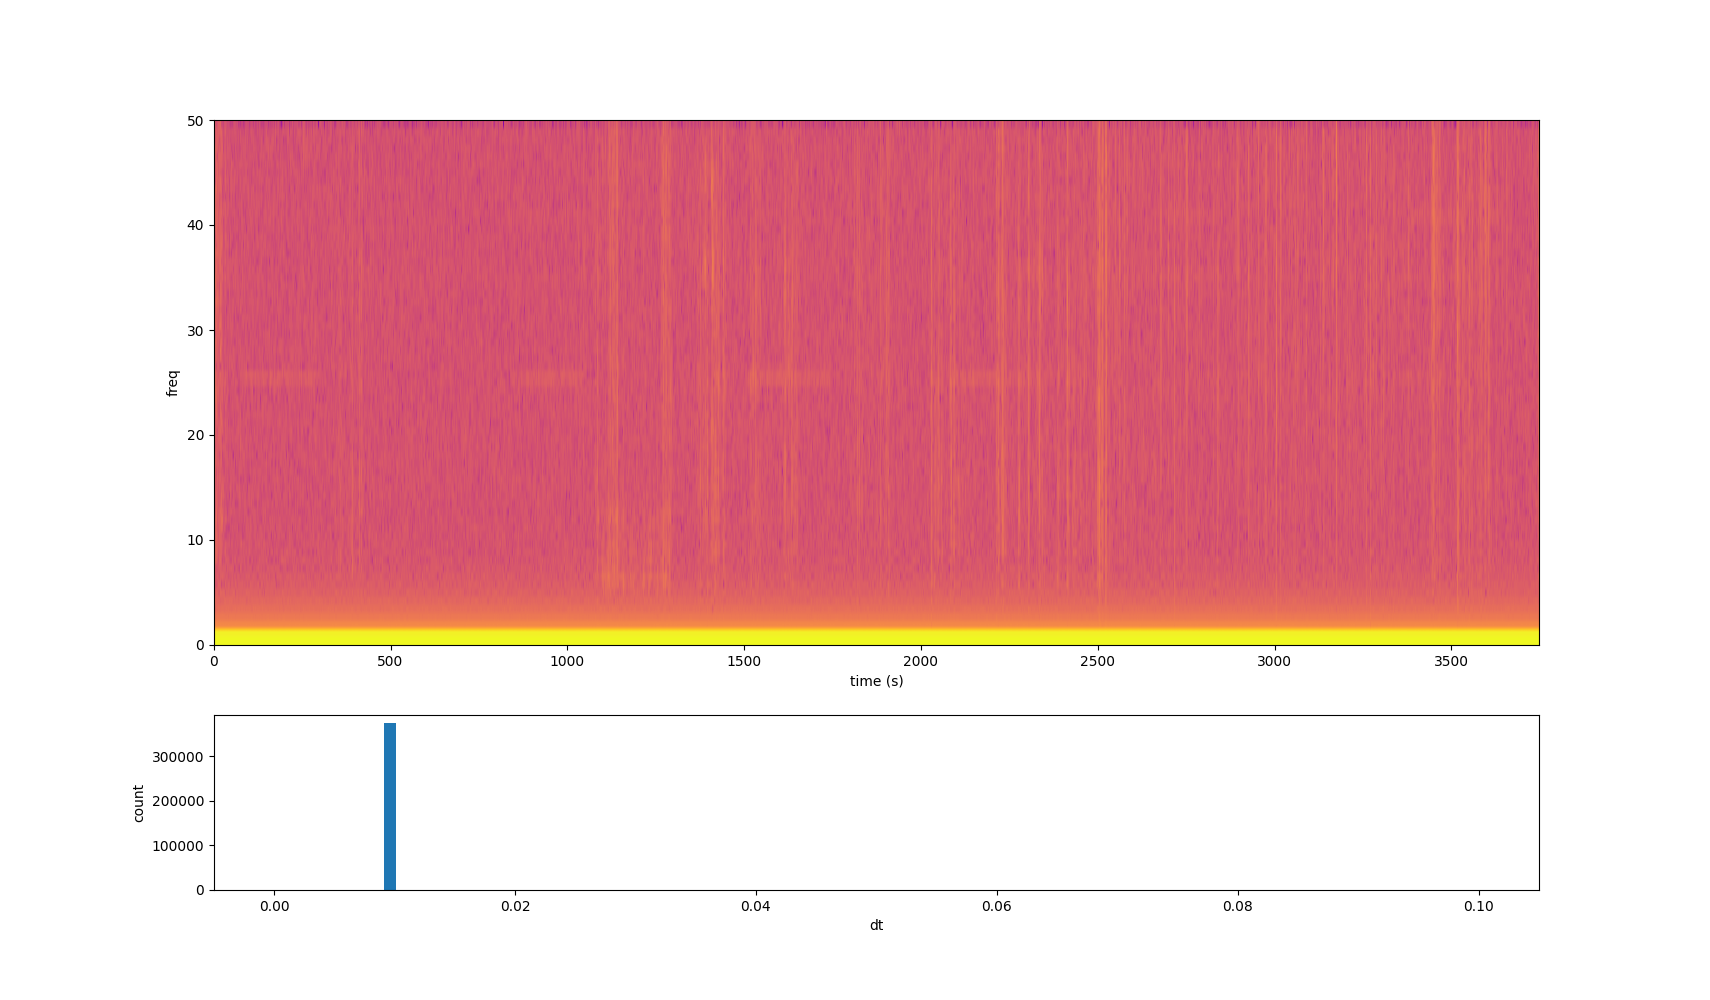
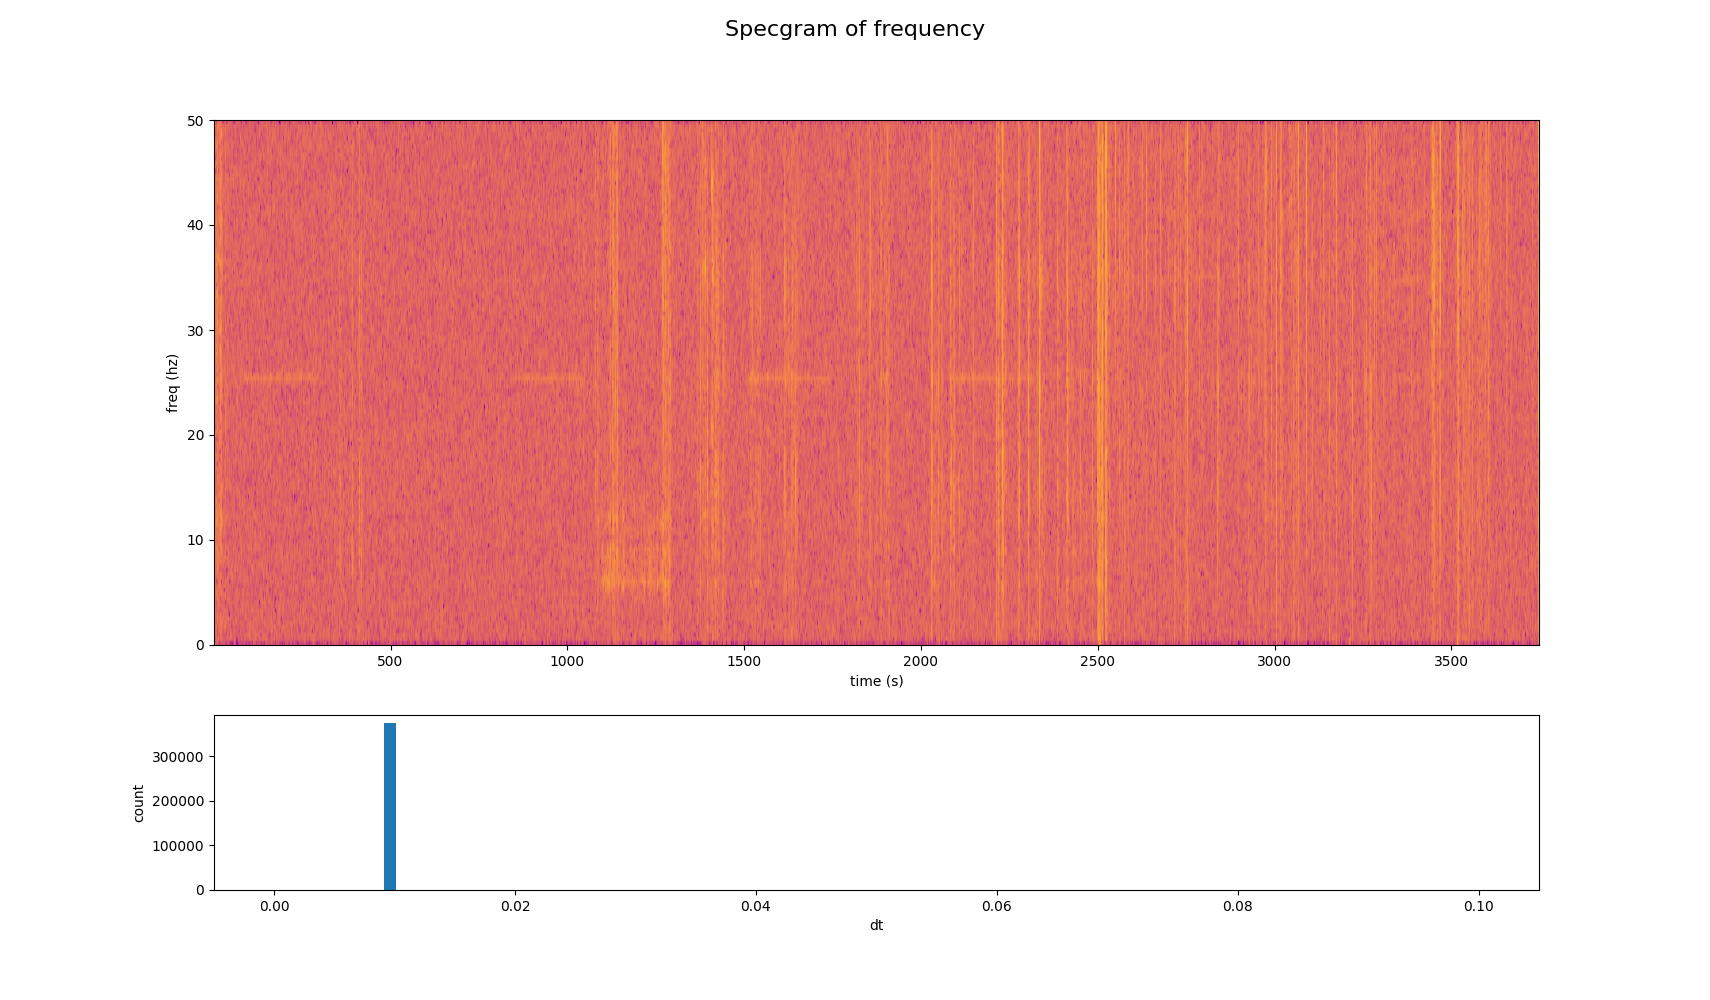
Plot title

Changed region(s): [[0.093, 0.124, 0.8988, 0.651], [0.4339, 0.0, 0.5579, 0.031]]

diff --git a/analyze.py b/analyze.py
@@ -21,10 +21,13 @@ dt = imu_df['time'].diff().median().total_seconds()
 sample_rate = 1.0 / dt
 print(f"Sample rate: {sample_rate:.3f}hz")
 
-fig, axs = plt.subplots(2, 1, figsize=(30, 10), height_ratios=[3, 1])
+
+fig, axs = plt.subplots(2, 1, figsize=(20, 10), height_ratios=[3, 1])
+fig.canvas.manager.set_window_title("specgram")
+fig.suptitle('Specgram of frequency', fontsize=16)
 axs[0].specgram(np.sqrt(imu_df['mag2']), Fs=sample_rate, NFFT=args.nfft, noverlap=32, cmap="plasma", detrend="mean")
 axs[0].set_xlabel("time (s)")
-axs[0].set_ylabel("freq")
+axs[0].set_ylabel("freq (hz)")
 
 bins = np.linspace(0, 0.1, 100)
 axs[1].hist(imu_df['time'].diff().dt.total_seconds(), bins=bins)
